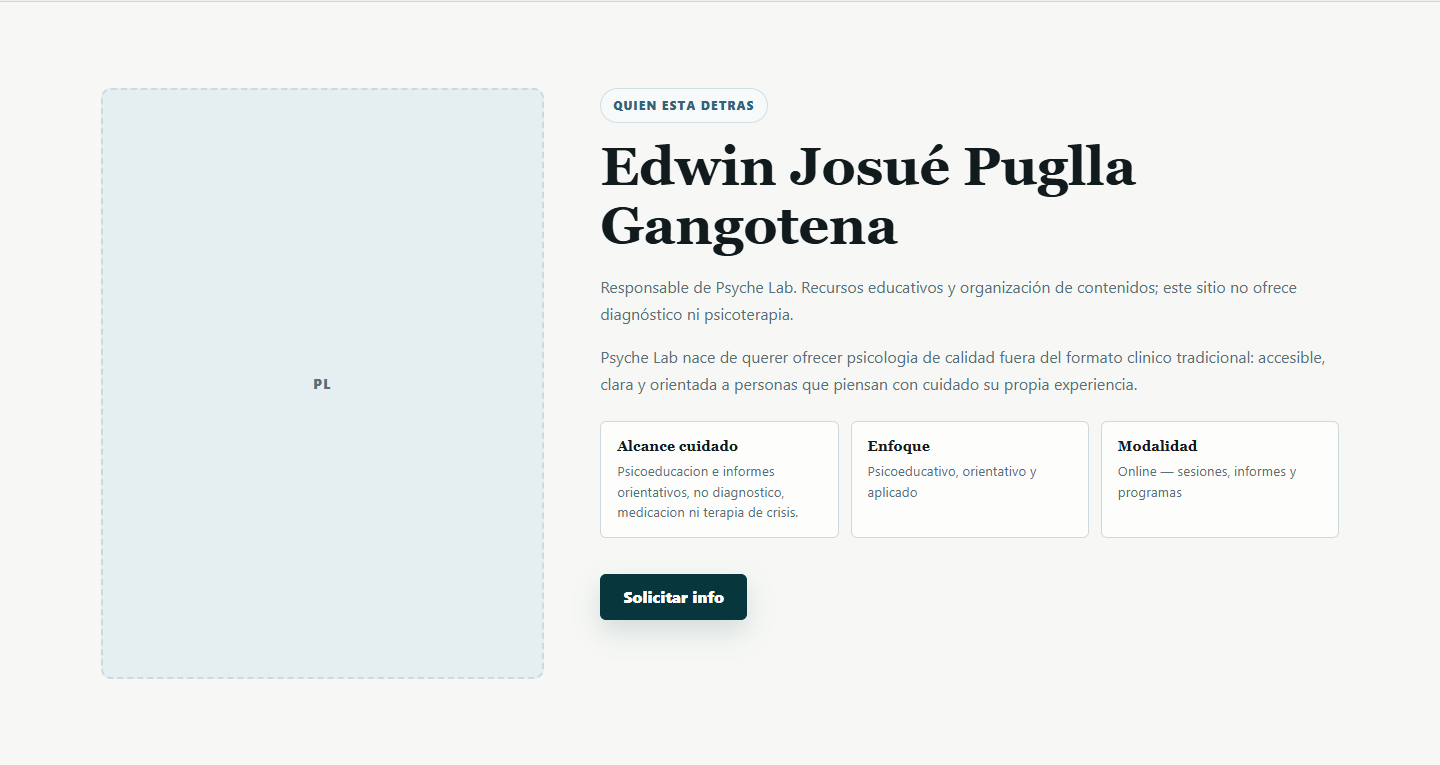
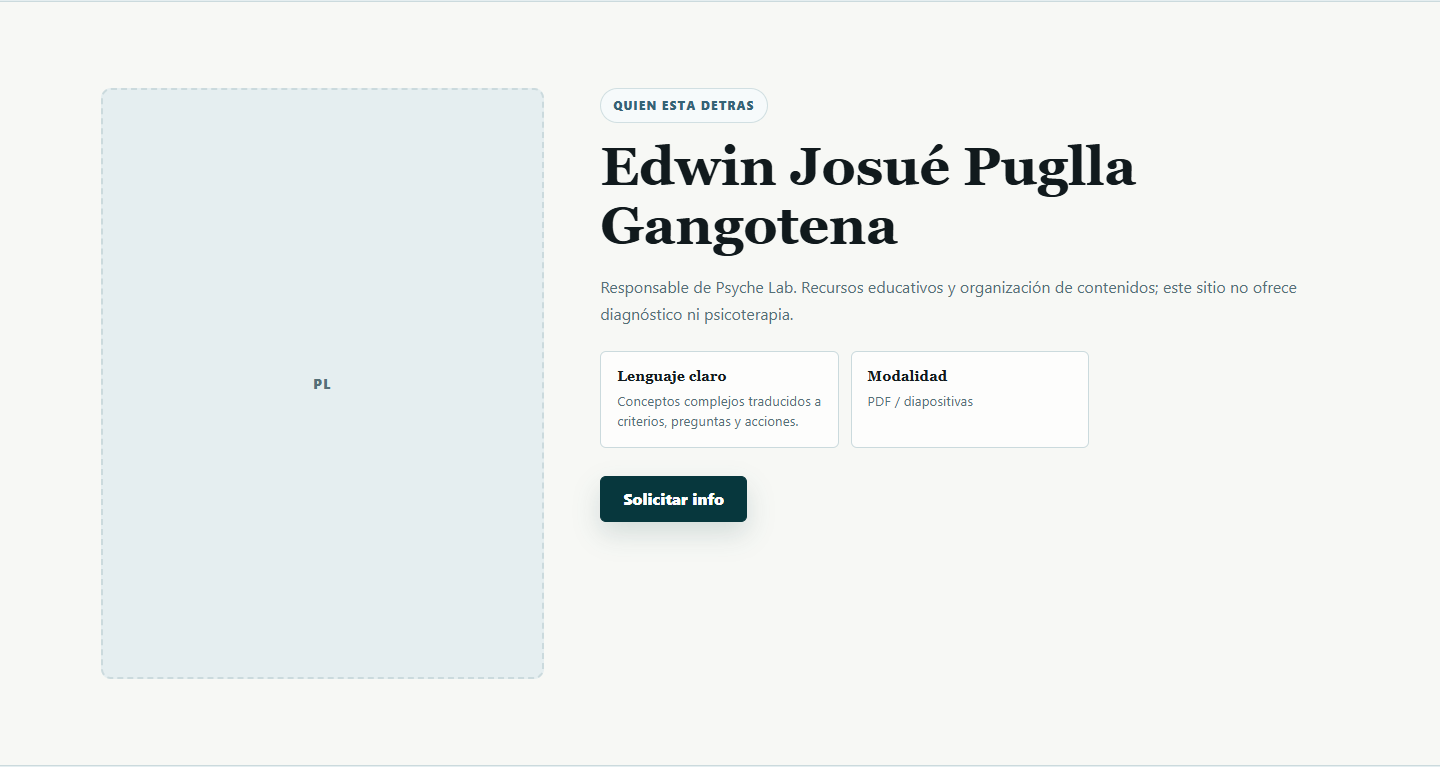
Refresh Psyche Lab case and screenshots after scope correction

diff --git a/cases/index.html b/cases/index.html
@@ -32,17 +32,17 @@
   </section>
   <article class="case-study" id="psyche-lab">
     <header><p class="eyebrow" data-en="Education / Content design / Own project">Educación / Diseño de contenidos / Proyecto propio</p><h2>Psyche Lab</h2><p class="case-deck" data-en="Explain who is behind an educational project and where its scope ends.">Explicar quién está detrás de un proyecto educativo y hasta dónde llega su alcance.</p></header>
-    <figure><img src="../assets/cases/psyche-identity-20261011.png" width="1440" height="766" alt="Sección pública de Psyche Lab con el responsable y la aclaración de que no ofrece diagnóstico ni psicoterapia" data-alt-en="Public Psyche Lab section naming its owner and stating that it does not offer diagnosis or psychotherapy"><figcaption data-en="Actual public website capture, 11 October 2026. Own educational project, not a client testimonial or evidence of clinical qualifications.">Captura real del sitio público, 11 de octubre de 2026. Proyecto educativo propio, no testimonio de cliente ni acreditación clínica.</figcaption></figure>
+    <figure><img src="../assets/cases/psyche-identity-20261011.png?v=20261013" width="1440" height="766" alt="Sección pública de Psyche Lab con el responsable y la aclaración de que no ofrece diagnóstico ni psicoterapia" data-alt-en="Public Psyche Lab section naming its owner and stating that it does not offer diagnosis or psychotherapy"><figcaption data-en="Actual public website capture, 13 October 2026. Own educational project, not a client testimonial or evidence of clinical qualifications.">Captura real del sitio público, 13 de octubre de 2026. Proyecto educativo propio, no testimonio de cliente ni acreditación clínica.</figcaption></figure>
     <div class="case-details">
       <section><h3 data-en="The communication problem">El problema de comunicación</h3><p data-en="When a website discusses mental health, visitors need to distinguish educational content from professional care. A visual identity alone does not explain who is responsible, what is available or what is excluded.">Cuando una web habla de salud mental, la visita necesita distinguir contenidos educativos de atención profesional. Una identidad visual por sí sola no explica quién responde, qué está disponible o qué queda fuera.</p></section>
       <section><h3 data-en="Decision 1: identify the owner">Decisión 1: identificar al responsable</h3><p data-en="The owner section names the person responsible and describes the educational role without claiming a professional title. The design does not require a personal photograph to make that identity explicit.">La sección del responsable muestra su nombre y describe el papel educativo sin atribuirle un título profesional. El diseño no necesita una fotografía personal para hacer explícita esa identidad.</p></section>
-      <section><h3 data-en="Decision 2: label the content honestly">Decisión 2: nombrar bien el contenido</h3><p data-en="Short topic introductions are grouped as frequent topics. Dates and reading times were removed because the links did not lead to complete articles. The label now describes what visitors can actually find.">Las introducciones breves se agrupan como temas frecuentes. Se retiraron fechas y tiempos de lectura porque los enlaces no llevaban a artículos completos. La etiqueta describe ahora lo que la persona puede encontrar.</p></section>
+      <section><h3 data-en="Decision 2: label the content honestly">Decisión 2: nombrar bien el contenido</h3><p data-en="The offer is limited to commissioned study materials, slides and organisational templates. Personal assessments, psychiatric guidance and test interpretation were removed. The resources section describes topics and formats, not downloads that do not exist.">La oferta se centra en materiales de estudio por encargo, diapositivas y plantillas de organización. Se retiraron las evaluaciones personales, la orientación psiquiátrica y la interpretación de pruebas. Recursos describe temas y formatos, no descargas inexistentes.</p></section>
       <section><h3 data-en="Decision 3: state the boundary">Decisión 3: explicar el límite</h3><p data-en="The owner section explicitly states that the website does not offer diagnosis or psychotherapy. This is a content-design decision, not proof of legal compliance, clinical validation or professional credentials.">La sección del responsable declara expresamente que el sitio no ofrece diagnóstico ni psicoterapia. Es una decisión de diseño de contenidos, no prueba de cumplimiento legal, validación clínica o credenciales profesionales.</p></section>
-      <section><h3 data-en="Inspect the work">Comprueba el trabajo</h3><ol><li data-en="Open the owner section and read the identity and scope together.">Abre la sección del responsable y lee juntos identidad y alcance.</li><li data-en="Visit Frequent topics and compare its labels with the linked destinations.">Visita Temas frecuentes y compara sus etiquetas con los destinos enlazados.</li><li data-en="Check the navigation on your phone. Language availability and editorial quality must be assessed separately.">Revisa la navegación desde tu móvil. La disponibilidad de idiomas y su calidad editorial deben evaluarse por separado.</li></ol></section>
+      <section><h3 data-en="Inspect the work">Comprueba el trabajo</h3><ol><li data-en="Open the owner section and read the identity and scope together.">Abre la sección del responsable y lee juntos identidad y alcance.</li><li data-en="Compare Services, Resources and the contact form: all should describe the same educational scope.">Compara Servicios, Recursos y el formulario: deben describir el mismo alcance educativo.</li><li data-en="Check the navigation on your phone. Language availability and editorial quality must be assessed separately.">Revisa la navegación desde tu móvil. La disponibilidad de idiomas y su calidad editorial deben evaluarse por separado.</li></ol></section>
       <section><h3 data-en="What this demonstrates">Qué demuestra</h3><p data-en="A published website with an identifiable owner, content sections and explicit educational limits. We do not claim measured conversion gains, patient outcomes or client revenue. A client delivery would define approved copy, screens, languages and acceptance checks in writing.">Un sitio publicado con responsable identificable, secciones de contenido y límites educativos explícitos. No atribuimos mejoras de conversión medidas, resultados en pacientes ni ingresos de clientes. Una entrega a cliente definiría por escrito textos aprobados, pantallas, idiomas y comprobaciones de aceptación.</p></section>
     </div>
-    <aside class="case-limit"><h3 data-en="Scope and remaining work">Alcance y trabajo pendiente</h3><p data-en="This case documents specific improvements, not a full endorsement of every page. Legacy wording about sessions, terminology and translations still needs an editorial review. The website is not a clinical record system, an integrated booking system or a learning platform.">Este caso documenta mejoras concretas, no un aval de cada texto del sitio. Sigue pendiente revisar expresiones heredadas sobre sesiones, terminología y traducciones. La web no es un sistema de historias clínicas, una agenda integrada ni un campus educativo.</p></aside>
-    <div class="case-actions"><a class="primary-button" href="https://nexodipa.github.io/psyche-lab-sitio-web/?lang=es#sobre-mi" target="_blank" rel="noopener noreferrer" data-en="Inspect the live section">Ver la sección publicada</a><a class="text-link" href="https://nexodipa.github.io/psyche-lab-sitio-web/?lang=es#articulos" target="_blank" rel="noopener noreferrer" data-en="Explore frequent topics">Explorar temas frecuentes</a><a class="text-link" href="../#contacto" data-en="Discuss your educational website">Conversar sobre tu web educativa</a></div>
+    <aside class="case-limit"><h3 data-en="Scope and remaining work">Alcance y trabajo pendiente</h3><p data-en="The educational scope and visible translations were revised. Native-speaker editorial review remains pending; automated checks do not establish linguistic quality or legal compliance. The website is not a clinical record system, an integrated booking system or a learning platform.">Se revisaron el alcance educativo y las traducciones visibles. Sigue pendiente la revisión editorial por hablantes nativos; las pruebas automáticas no acreditan calidad lingüística ni cumplimiento legal. La web no es un sistema de historias clínicas, una agenda integrada ni un campus educativo.</p></aside>
+    <div class="case-actions"><a class="primary-button" href="https://nexodipa.github.io/psyche-lab-sitio-web/?lang=es#sobre-mi" target="_blank" rel="noopener noreferrer" data-en="Inspect the live section">Ver la sección publicada</a><a class="text-link" href="https://nexodipa.github.io/psyche-lab-sitio-web/?lang=es#recursos" target="_blank" rel="noopener noreferrer" data-en="Explore educational resources">Explorar recursos educativos</a><a class="text-link" href="../#contacto" data-en="Discuss your educational website">Conversar sobre tu web educativa</a></div>
   </article>
   <article class="case-study" id="catalog">
     <header><p class="eyebrow" data-en="01 / Data quality / Working tool">01 / Calidad de datos / Herramienta funcional</p><h2>Nexo Catalog</h2><p class="case-deck" data-en="Review a CSV before moving its data into another tool.">Revisar un CSV antes de llevar sus datos a otra herramienta.</p></header>

diff --git a/index.html b/index.html
@@ -67,7 +67,7 @@
       <div class="project-meta"><span>Marca de servicios</span><span>Sitio publicado</span></div><h3 translate="no">Scriptorium</h3><p>Arquitectura de oferta, portafolio documental, servicios especializados y presencia multilingue.</p><a class="text-link" href="https://nexodipa.github.io/scriptorium-language-studio/" target="_blank" rel="noopener">Ver proyecto<i data-lucide="arrow-up-right" aria-hidden="true"></i></a>
     </article>
     <article class="portfolio-card" data-category="web">
-      <button class="project-image" type="button" data-preview="psyche-lab" aria-label="Psyche Lab"><img src="assets/portfolio/psyche-lab-20260923.jpg" alt="Psyche Lab" width="1440" height="960" loading="lazy" /><i data-lucide="maximize-2" aria-hidden="true"></i></button>
+      <button class="project-image" type="button" data-preview="psyche-lab" aria-label="Psyche Lab"><img src="assets/portfolio/psyche-lab-screen.png?v=20261013" alt="Psyche Lab" width="1440" height="1000" loading="lazy" /><i data-lucide="maximize-2" aria-hidden="true"></i></button>
       <div class="project-meta"><span>Salud digital</span><span>Sitio publicado</span></div><h3 translate="no">Psyche Lab</h3><p>Sitio propio de psicoeducación: organización de servicios, recursos y contacto. No es una clínica online.</p><a class="text-link" href="cases/#psyche-lab" target="_blank" rel="noopener">Ver proyecto<i data-lucide="arrow-up-right" aria-hidden="true"></i></a>
     </article>
     <article class="portfolio-card" data-category="web">
